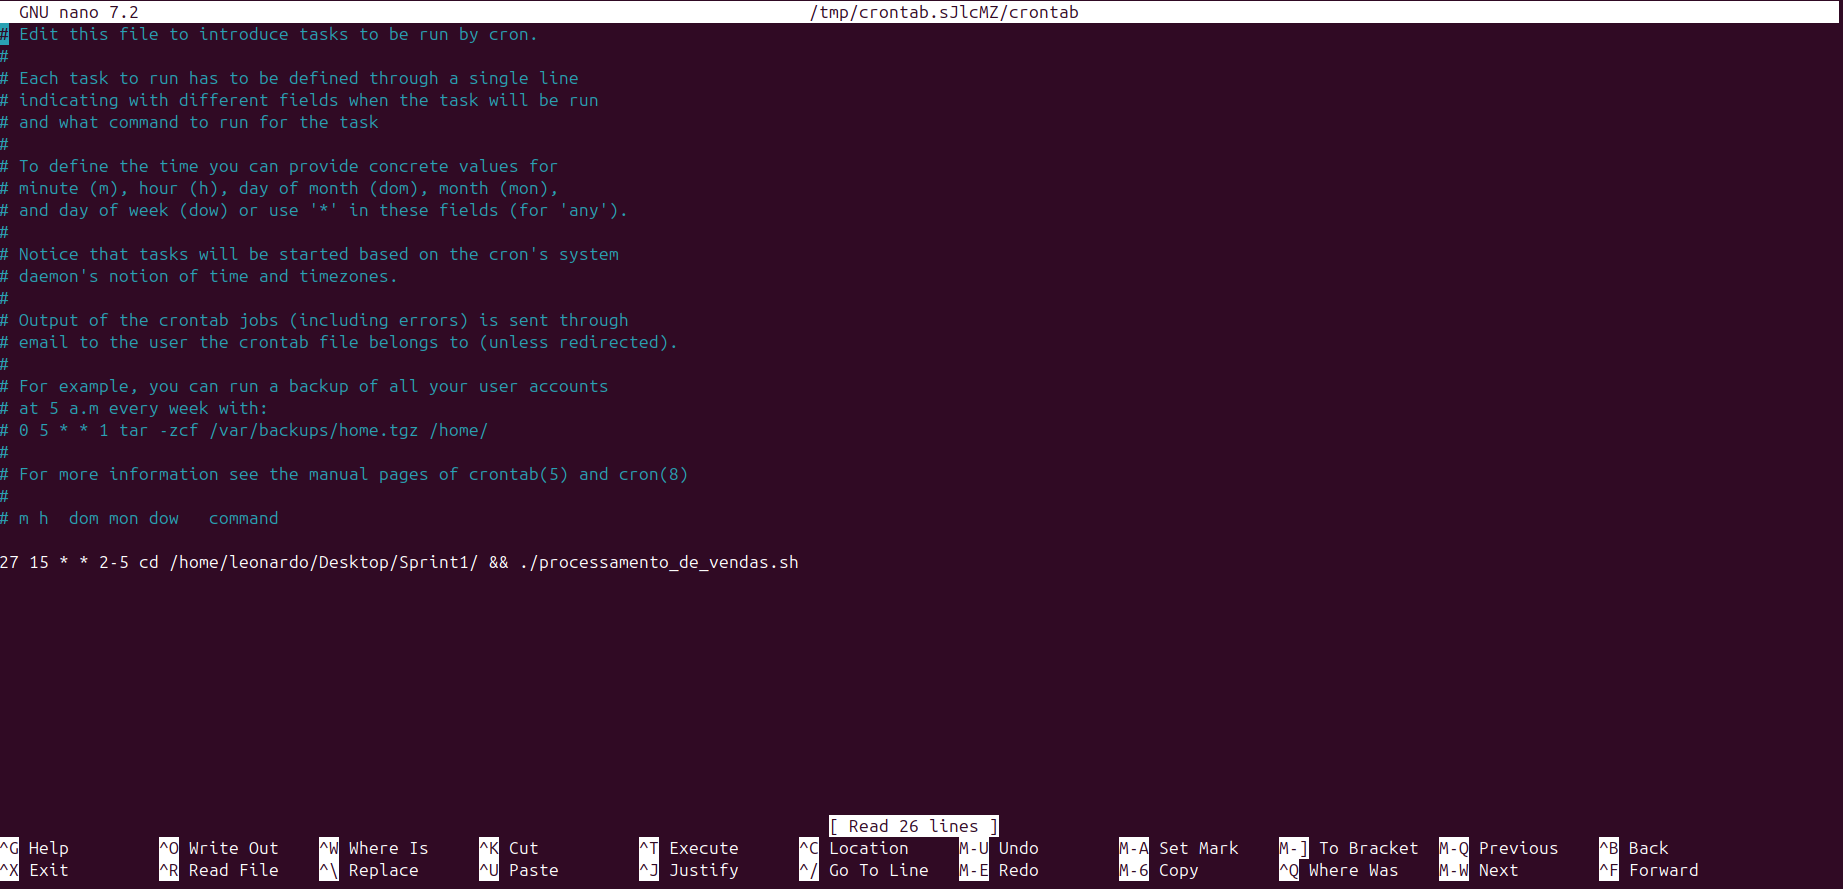
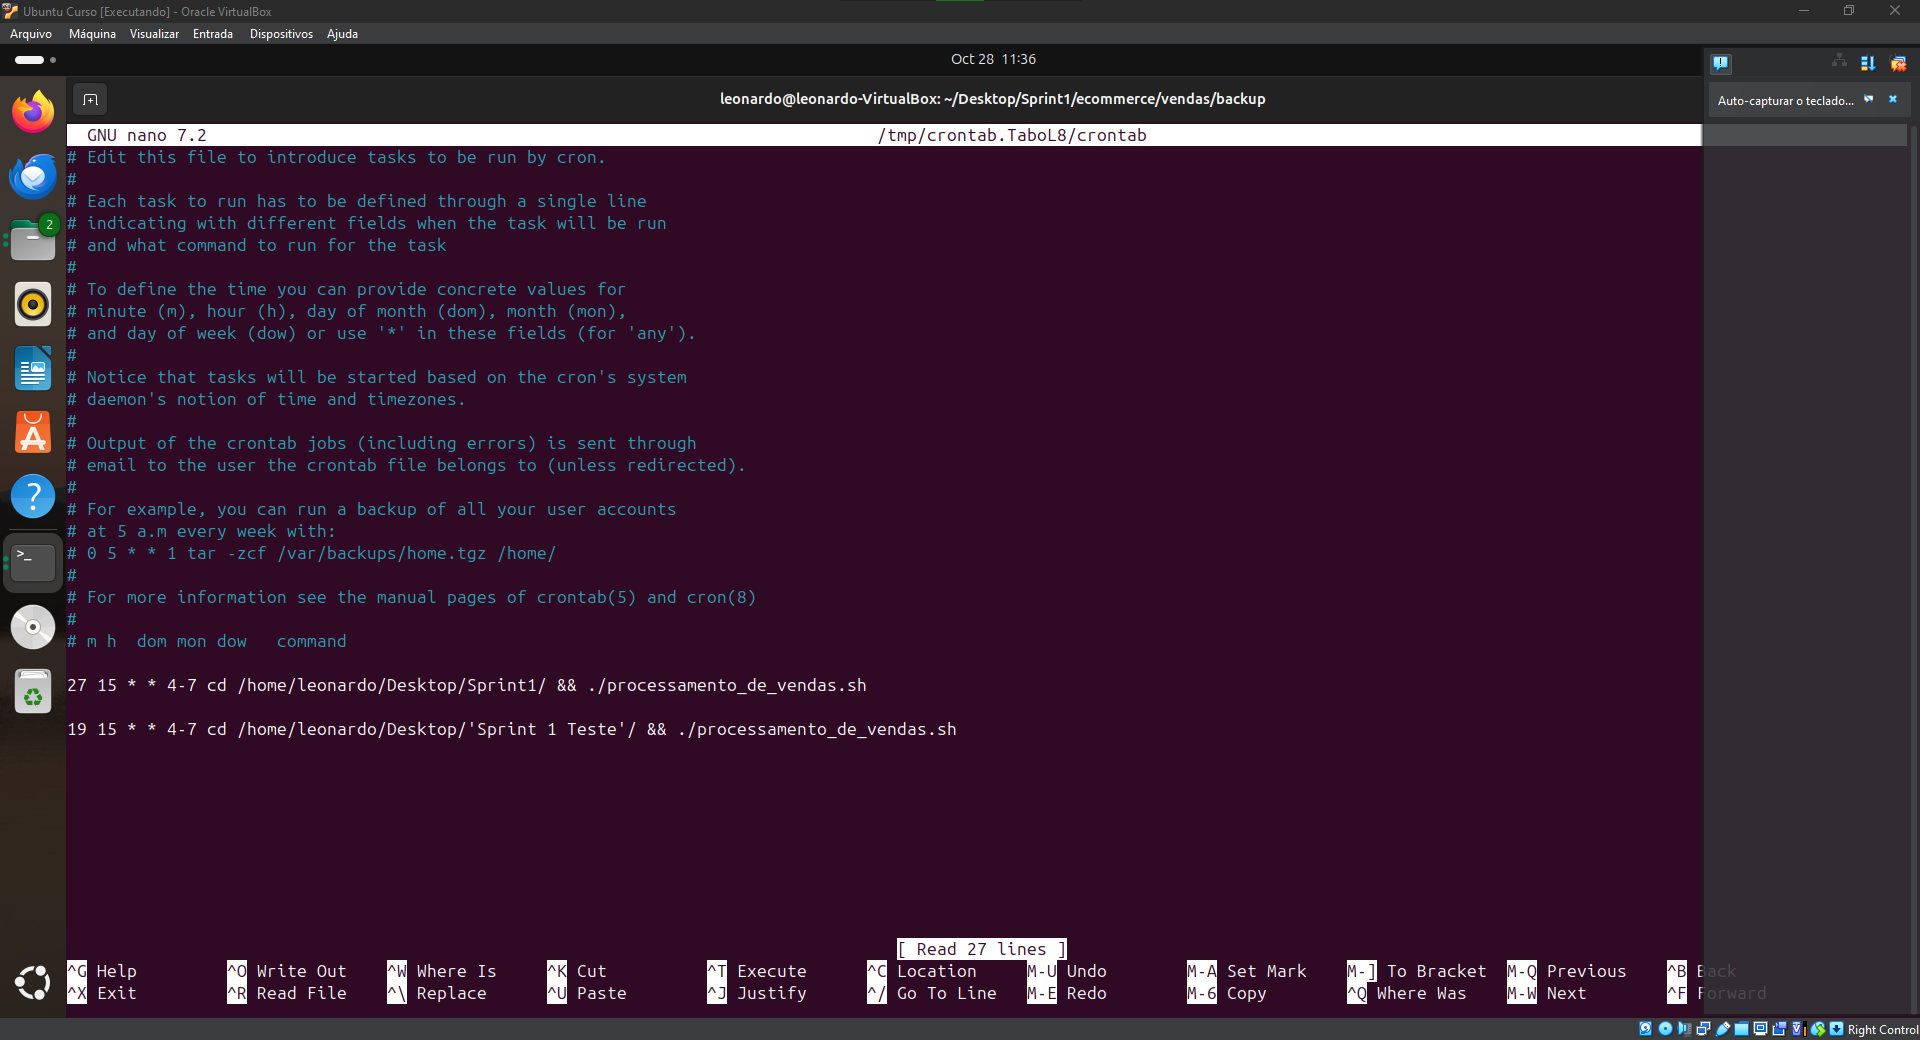
Atualização READMEs

diff --git a/Sprint 1/Desafio/README.md b/Sprint 1/Desafio/README.md
@@ -162,7 +162,7 @@ Explicação do desenvolvimento dos shells scripts e anexos contendo algumas inf
 
 9. ... [Etapa 9 - crontab configuração](#Etapa9)
 
-    Para a sua configuração é colocado para o crontab executar o processamento_de_vendas.sh às 15h27 nos dias terça-feira a sábado, vale ressaltar que no comando é mudado o diretório de execução para a pasta raiz da Sprint1, porque se caso não se faça isso o shell script vai tentar executar no diretório home.
+    Para a sua configuração é colocado para o crontab executar o processamento_de_vendas.sh às 15h27 nos dias quinta-feira a domingo, vale ressaltar que no comando é mudado o diretório de execução para a pasta raiz da Sprint1, porque se caso não se faça isso o shell script vai tentar executar no diretório home.
 
     ![Evidência](../Evidencias/ETAPA9_-_CRONTAB.png)
 
